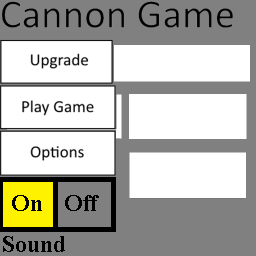
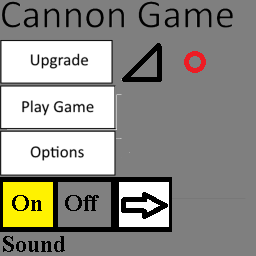
Added a back button to Options

Changed region(s): [[0.4375, 0.1562, 1.0, 0.5625], [0.4375, 0.5938, 0.9688, 0.9062]]

diff --git a/asthma/src/com/groupc/game1/Assets.java b/asthma/src/com/groupc/game1/Assets.java
@@ -10,7 +10,7 @@ import com.groupc.game.TextureRegion;
 
 public class Assets
 {
-	public static Texture buttons;
+	public static Texture sheet;
 	public static TextureRegion playBut;
 	public static TextureRegion optionsBut;
 	public static TextureRegion upgradeBut;
@@ -18,19 +18,25 @@ public class Assets
 	public static TextureRegion soundOn;
 	public static TextureRegion soundOff;
 	public static TextureRegion soundLbl;
+	public static TextureRegion arrowBut;
+	public static TextureRegion ramp;
+	public static TextureRegion ball;
 	
 	public static void load()
 	{
 		try {
-			buttons = TextureLoader.getTexture("PNG", ResourceLoader.getResourceAsStream("mainmenu.png"));
+			sheet = TextureLoader.getTexture("PNG", ResourceLoader.getResourceAsStream("mainmenu.png"));
 			
-			title = new TextureRegion(buttons, 0, 226, 235, 30);
-			playBut = new TextureRegion(buttons, 0, 128, 116, 43);
-			upgradeBut = new TextureRegion(buttons, 0, 176, 116, 42);
-			optionsBut = new TextureRegion(buttons, 0, 84, 113, 42);
-			soundOn = new TextureRegion(buttons, 0, 24, 54, 55);
-			soundOff = new TextureRegion(buttons, 54, 24, 54, 55);
-			soundLbl = new TextureRegion(buttons, 0, 0, 65, 23);
+			title = new TextureRegion(sheet, 0, 226, 235, 30);
+			playBut = new TextureRegion(sheet, 0, 128, 116, 43);
+			upgradeBut = new TextureRegion(sheet, 0, 176, 116, 42);
+			optionsBut = new TextureRegion(sheet, 0, 84, 113, 42);
+			soundOn = new TextureRegion(sheet, 0, 24, 54, 55);
+			soundOff = new TextureRegion(sheet, 54, 24, 54, 55);
+			soundLbl = new TextureRegion(sheet, 0, 0, 65, 23);
+			arrowBut = new TextureRegion(sheet, 110, 24, 54, 55);
+			ramp = new TextureRegion(sheet, 121, 175, 40, 41);
+			ball = new TextureRegion(sheet, 184, 183, 20, 20);
 			
 		} catch (IOException e) {
 			// TODO Auto-generated catch block

diff --git a/asthma/src/com/groupc/game1/Options.java b/asthma/src/com/groupc/game1/Options.java
@@ -13,6 +13,7 @@ public class Options extends GameScreen
 	Camera cam;
 	Rectangle soundLabel;
 	Rectangle soundOnOff;
+	Rectangle back;
 	boolean sound;
 	Vector mouseClick;
 	
@@ -22,6 +23,7 @@ public class Options extends GameScreen
 		this.cam.setCamera();
 		soundLabel = new Rectangle(50, 250, 200, 100);
 		soundOnOff = new Rectangle(250, 250, 100, 100);
+		back = new Rectangle(180, 50, 100, 100);
 		sound = true;
 		mouseClick = new Vector();
 	}
@@ -43,6 +45,11 @@ public class Options extends GameScreen
 					{
 						sound = !sound;
 					}
+					if(CollisionChecker.PointToRect(mouseClick, back))
+					{
+						this.dispose();
+						System.out.println("back");
+					}
 				}
 			}
 		}
@@ -52,7 +59,7 @@ public class Options extends GameScreen
 	public void present(float deltaTime)
 	{
 		cam.setCamera();
-		Assets.buttons.bind();
+		Assets.sheet.bind();
 		Assets.soundLbl.draw(soundLabel);
 		if(sound)
 		{
@@ -62,6 +69,9 @@ public class Options extends GameScreen
 		{
 			Assets.soundOff.draw(soundOnOff);
 		}
+		
+		Rectangle temp = new Rectangle(back.lowerLeft.x + back.width, back.lowerLeft.y, -1*back.width, back.height);
+		Assets.arrowBut.draw(temp);
 	}
 
 	@Override

diff --git a/asthma/src/com/groupc/screens/LoginScreen.java b/asthma/src/com/groupc/screens/LoginScreen.java
@@ -105,7 +105,8 @@ public class LoginScreen extends Screen
 		});	
 		
 		//Enter Key is Pressed
-		userNameTF.addActionListener(new ActionListener(){
+		userNameTF.addActionListener(new ActionListener()
+		{
 			@Override
 			public void actionPerformed(ActionEvent e)
 			{

diff --git a/asthma/src/com/groupc/game1/MainMenu.java b/asthma/src/com/groupc/game1/MainMenu.java
@@ -59,7 +59,7 @@ public class MainMenu extends GameScreen
 	public void present(float deltaTime)
 	{
 		cam.setCamera();
-		Assets.buttons.bind();
+		Assets.sheet.bind();
 		Assets.title.draw(title);
 		Assets.playBut.draw(play);
 		Assets.optionsBut.draw(options);
